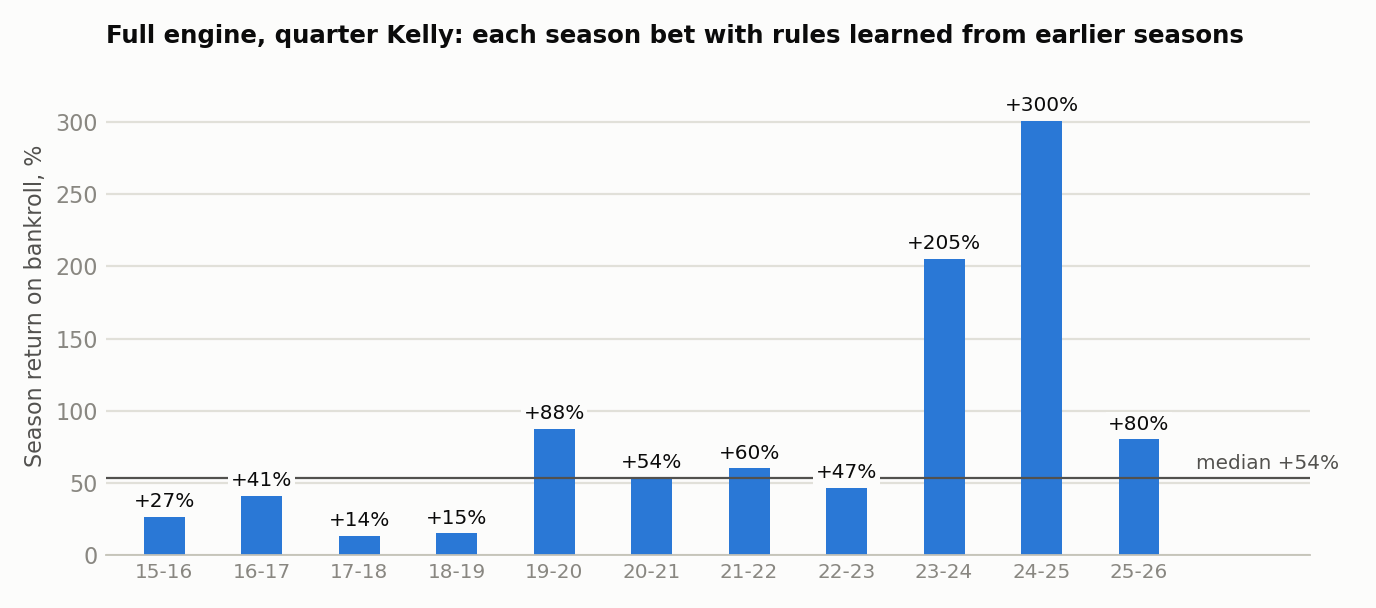
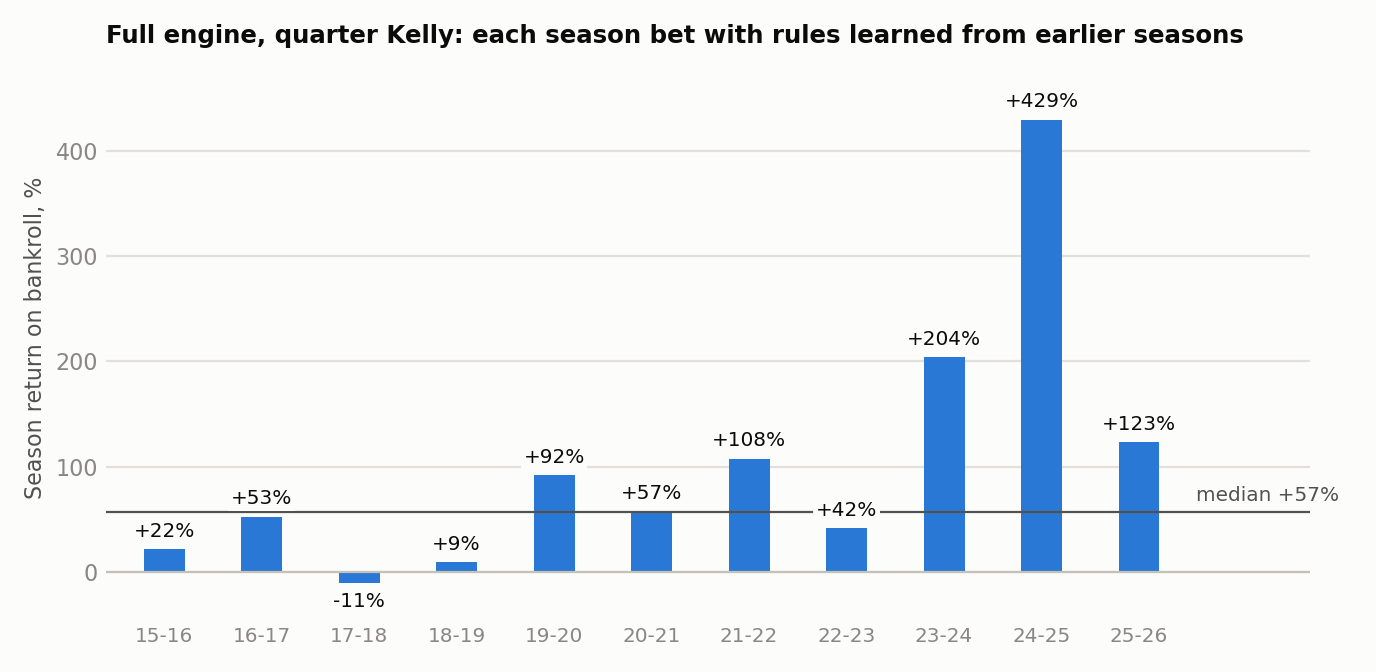
Rebuild the spread backtest on the current model with an availability feed in every season
Pre-2018 seasons now use a synthetic injury feed built from box scores; the
real report feed is used from December 2018. Spread rule 58.3% on 753 bets,
engine median +57% with one losing season in 11. Adds the comparison of five
levels of availability knowledge and redraws the engine chart to scale.

diff --git a/docs/STRATEGIES.md b/docs/STRATEGIES.md
@@ -16,11 +16,11 @@ Everything here assumes the opening line is actually bet, which has not been sho
 
 | Strategy | Bets per season | Cover | ROI per bet | Season return at 1% stakes | Status |
 |---|---|---|---|---|---|
-| Spread, model gap 2+ points | 54 | 56.8% | +8.4% | +4.5% | Backtest only |
+| Spread, model gap 2+ points | 54 | 58.3% | +11.3% | +6.1% | Backtest only |
 | Totals, model gap 2+ points | 170 | 55.3% | +5.5% | +9.3% | Passed a pre-declared test |
 | Totals, same rule on 2007-12 (never tuned on) | 137 | 57.4% | +9.5% | +13.0% | Holdout |
 | Totals, bet only within 1 point of the opener | about 140 | about 55.3% | about +5.5% | about +8% | Under live test |
-| Either rule, stake in proportion to the gap | same bets | same | +9.4% spread, +6.9% totals | +6.5%, +16.1% | Logged beside the flat stake |
+| Either rule, stake in proportion to the gap | same bets | same | +12.2% spread, +6.9% totals | +8.4%, +16.1% | Logged beside the flat stake |
 | Moneyline, four rules frozen before the season | about 75 | not comparable | no line value | not estimated | Live; likely no edge |
 | Player points | not a rule yet | 52.6% at a 5+ point probability gap | +0.7% | not estimated | Not bettable |
 
@@ -40,36 +40,36 @@ The rule bets the model's side when its corrected margin is 2 or more points fro
 
 ### Where the edge comes from
 
-Across 15,911 games the final margin moves 0.33 points for every point the model disagrees with the opener. A plain ratings model built from results in 20 lines of code earns 0.09, and it adds nothing once the full model is included. The player ratings, minutes and availability inputs are therefore doing the work.
+Across 15,911 games the final margin moves 0.36 points for every point the model disagrees with the opener. A plain ratings model built from results in 20 lines of code earns 0.09, and it adds nothing once the full model is included. The player ratings, minutes and availability inputs are therefore doing the work.
 
 ### Bigger gaps cover more
 
-A gap of a given size, set against an outcome spread of 12.6 points, implies a cover rate, and actual results track it.
+A gap of a given size, set against an outcome spread of 12.6 points, implies a cover rate, and actual results follow it loosely: the middle band falls short and the top band overshoots.
 
 | Gap | Implied by the model | Actual | Bets |
 |---|---|---|---|
-| 2 to 2.5 | 56.9% | 54.7% | 450 |
-| 2.5 to 3 | 58.5% | 59.9% | 162 |
-| 3+ | 61.4% | 60.0% | 140 |
+| 2 to 2.5 | 56.9% | 57.8% | 460 |
+| 2.5 to 3 | 58.5% | 55.2% | 181 |
+| 3+ | 61.7% | 65.2% | 112 |
 
 ### By month
 
 | Month | Cover | Bets |
 |---|---|---|
-| Oct-Nov | 61.3% | 238 |
-| Dec | 52.6% | 78 |
-| Jan | 54.2% | 72 |
-| Feb | 54.8% | 73 |
-| Mar | 61.1% | 126 |
-| Apr | 50.4% | 141 |
+| Oct-Nov | 63.6% | 236 |
+| Dec | 56.3% | 87 |
+| Jan | 52.4% | 63 |
+| Feb | 52.3% | 65 |
+| Mar | 60.1% | 153 |
+| Apr | 53.8% | 130 |
 
 ### Best in October and November
 
-The model is no more accurate per point early in the season. It earns 0.29 points of result per point of gap in October and November, against 0.40 from December to March. What changes is how far it disagrees with the opener: the spread of that disagreement is 3.1 points early and 2.5 later. As a result 6.4% of early games reach the 2-point threshold, compared with 3.0% later, and they clear it by more.
+The model is no more accurate per point early in the season. It earns 0.30 points of result per point of gap in October and November, against 0.42 from December to March. What changes is how far it disagrees with the opener: the spread of that disagreement is 3.1 points early and 2.6 later. As a result 6.4% of early games reach the 2-point threshold, compared with 3.2% later, and they clear it by more.
 
-### April loses (small sample)
+### April is weakest
 
-April is where the model disagrees with the opener most, at 3.5 points, and is right least, at 0.12 points of result per point of gap. April games also carry more expected absences: 2.7 a game against 1.9. On 2019-26, April bets in games with three or more expected absences covered 36.8% (38 bets), while the rest covered 61.3% (31 bets). The model is weakest when many regular players sit, although rest and tanking were not separated.
+April is where the model disagrees with the opener most, at 3.4 points, and is right least, at 0.22 points of result per point of gap, so its bets cover only 53.8%. April games also carry more expected absences: 2.7 a game against 1.9. An earlier version of this page blamed those absences, but the split does not hold on the rebuilt model: on 2019-26, April bets in games with three or more expected absences covered 55.0% (40 bets) and the rest 57.1% (28 bets). Giving April its own, lower trust did not help out of sample either, so the weak month is unexplained.
 
 ## Totals rule
 
@@ -130,9 +130,9 @@ February is strong in both samples, and the All-Star break is not the reason, si
 
 ## Sizing and thresholds
 
-Staking in proportion to the gap (1 unit at 2 points, capped at 2.5) raises ROI from +8.4% to +9.4% on spreads and from +5.5% to +6.9% on totals. This follows from the gap tables above, because bigger gaps cover more. It does not smooth the seasons much: losing seasons go from 2 of 14 to 4 on spreads, two of them by under half a unit, and from 2 to 1 on totals.
+Staking in proportion to the gap (1 unit at 2 points, capped at 2.5) raises ROI from +11.3% to +12.2% on spreads and from +5.5% to +6.9% on totals. This follows from the gap tables above, because bigger gaps cover more. It trims the losing seasons from 2 of 14 to 1 on each rule.
 
-A higher threshold gives more per bet and less in total. Spread bets at a gap of 2.5+ cover 59.9% for +14.4%, on 22 bets a season. Totals bets at 3+ cover 59.7% for +13.9%, on 44 a season.
+A higher threshold gives more per bet and less in total. Spread bets at a gap of 2.5+ cover 59.0% for +12.7%, on 21 bets a season. Totals bets at 3+ cover 59.7% for +13.9%, on 44 a season.
 
 On the totals rule, quarter Kelly returned +9.6% a season on average, with a median of +4.7% and a standard deviation of 14.0%. Full Kelly reached a 68% drawdown; the detail is in [SEASON_2026_27.md](SEASON_2026_27.md).
 
@@ -144,17 +144,33 @@ The table runs both rules together with sized stakes, where the base stake is a 
 
 | Base stake | Median season | Worst season | Losing seasons | Worst drawdown within a season |
 |---|---|---|---|---|
-| 1% | +19.2% | -6.5% | 2 of 14 | 20% |
-| 2% | +29.2% | -17.1% | 2 of 14 | 40% |
-| 3% | +39.4% | -30.9% | 2 of 14 | 52% |
-| 5% | +56.2% | -51.5% | 2 of 14 | 67% |
-| 8% | +72.9% | -74.9% | 3 of 14 | 81% |
+| 1% | +20.5% | -7.3% | 2 of 14 | 21% |
+| 2% | +37.8% | -17.1% | 2 of 14 | 42% |
+| 3% | +54.9% | -30.1% | 2 of 14 | 55% |
+| 5% | +79.4% | -57.5% | 3 of 14 | 70% |
+| 8% | +89.3% | -75.1% | 3 of 14 | 81% |
 
-Drawdown grows almost in step with the stake, and the median return stops growing before the drawdown does: at a 12% base stake the median is +69.0%, below the 8% row, with a 93% drawdown and five losing seasons. The longest losing run was 12 bets, and the busiest night carried 18 bets at once. Mean returns run far above the medians at the larger stakes, because a few seasons compound to several times the bankroll, which is why the table leaves them out.
+Drawdown grows almost in step with the stake, and the median return stops growing before the drawdown does: at a 12% base stake the median is +75.7%, below the 8% row, with a 91% drawdown and five losing seasons. The longest losing run was 10 bets, and the busiest night carried 17 bets at once. Mean returns run far above the medians at the larger stakes, because a few seasons compound to several times the bankroll, which is why the table leaves them out.
 
 ## Why the rules win
 
 The working thesis is that the model is faster than the opening line and no smarter than the market. On spreads it prices at the opener what the market prices over the following day, which is who will play and how good they are, and the line then moves toward it. The totals model uses no player data and bets when the opener sits away from where the market itself recently closed those teams. Neither rule has an edge at later prices, and the model does not beat the closing line on any market.
+
+### Knowing who plays
+
+The spread model is built on player ratings, so it matters how much it knows about who will play. The table reruns the same model over the same games with five levels of that knowledge, on the rule the live view uses: bet when the market-blind model is 5 or more points from the opening spread.
+
+| What the model knows about who plays | 2012-18 cover | 2018-26 cover | All 14 seasons | Bets |
+|---|---|---|---|---|
+| Nothing | 53.2% | 55.4% | 54.8% | 1,315 |
+| A synthetic feed built from box scores | 54.5% | 56.9% | 56.2% | 1,319 |
+| The injury-report feed, as of the open | not available | 58.6% | 56.9% | 1,260 |
+| Official inactive lists, 30 minutes before tip | 55.2% | 60.0% | 58.6% | 1,274 |
+| Perfect hindsight | 58.0% | 60.1% | 59.5% | 1,403 |
+
+Cover rises with every step, and so does the amount by which the bets beat the closing line, from 0.6 points with nothing to 1.8 with hindsight. The injury-report feed only exists from December 2018, so for earlier seasons the backtest uses the synthetic feed, which estimates each rotation player's chance of sitting from box scores before game day: whether he missed the last game, how many in a row, days since he played, his minutes and back-to-backs. It recovers about half of what the real feed adds, and its estimate of minutes missing per team tracks reality about as well (a correlation of 0.68 against 0.72). The last two rows cannot be bet a day ahead and are there as a ceiling.
+
+The older seasons stay behind the recent ones at every level, so the missing feed explains part of that gap and not all of it.
 
 ### Not roster or league change
 
@@ -162,13 +178,13 @@ A model built on player ratings might be expected to win most when rosters chang
 
 | Combined turnover | Spread cover | Bets | Totals cover | Bets |
 |---|---|---|---|---|
-| Low | 57.0% | 237 | 54.9% | 887 |
-| Middle | 55.7% | 271 | 54.9% | 827 |
-| High | 57.8% | 244 | 56.2% | 666 |
+| Low | 57.4% | 237 | 54.9% | 887 |
+| Middle | 57.4% | 270 | 54.9% | 827 |
+| High | 60.2% | 246 | 56.2% | 666 |
 
-In a regression of win on gap, turnover and early season, the turnover coefficient is about zero for both rules (p = 0.88 on spreads and 0.73 on totals). The model's disagreement with the opener is also no wider when turnover is high. The early-season spread edge does not come from new rosters either, since October and November bets covered 63.2% in low-turnover games (87 bets) and 64.9% in high-turnover games (77 bets). Backing the team that was worse last season covered 58.0% (269 bets), against 56.0% for backing the better one (482 bets).
+In a regression of win on gap, turnover and early season, the turnover coefficient is about zero for both rules (p = 0.48 on spreads and 0.73 on totals). The model's disagreement with the opener is also no wider when turnover is high. The early-season spread edge does not come from new rosters either, since October and November bets covered 67.1% in low-turnover games (85 bets) and 66.7% in high-turnover games (78 bets). Backing the team that was worse last season covered 58.6% (290 bets), against 58.0% for backing the better one (462 bets).
 
-Season by season the picture is the same. Spread cover is uncorrelated with league-wide turnover (+0.01) and with the year-on-year change in league scoring (+0.04). Totals cover falls with league turnover (-0.56), which is most likely a shared time trend, because turnover has drifted down over the years in which totals bets have grown.
+Season by season the picture is the same. Spread cover is uncorrelated with league-wide turnover (-0.03) and with the year-on-year change in league scoring (+0.19, on 14 seasons). Totals cover falls with league turnover (-0.56), which is most likely a shared time trend, because turnover has drifted down over the years in which totals bets have grown.
 
 ### Not periods of change either
 
@@ -176,18 +192,18 @@ The same question was asked of the stretches when rosters shift during a season,
 
 | Cut | Spread cover | Bets | Totals cover | Bets |
 |---|---|---|---|---|
-| Rotation stable over the last 15 games | 58.7% | 121 | 56.5% | 503 |
-| Rotation churning | 54.3% | 245 | 57.1% | 694 |
-| 28 days before the trade deadline | 58.2% | 55 | 53.1% | 254 |
-| 21 days after the trade deadline | 54.1% | 74 | 61.8% | 254 |
-| First 20 games, a rebuilt team in the game | 60.5% | 119 | 50.2% | 263 |
-| First 20 games, no rebuilt team | 58.9% | 141 | 52.6% | 456 |
-| 30 days after the deadline, a traded team in the game | 56.2% | 64 | 57.6% | 210 |
-| 30 days after the deadline, no traded team | 61.0% | 41 | 61.1% | 131 |
+| Rotation stable over the last 15 games | 62.2% | 119 | 56.5% | 503 |
+| Rotation churning | 56.1% | 262 | 57.1% | 694 |
+| 28 days before the trade deadline | 56.9% | 51 | 53.1% | 254 |
+| 21 days after the trade deadline | 48.4% | 64 | 61.8% | 254 |
+| First 20 games, a rebuilt team in the game | 63.9% | 119 | 50.2% | 263 |
+| First 20 games, no rebuilt team | 60.6% | 137 | 52.6% | 456 |
+| 30 days after the deadline, a traded team in the game | 48.5% | 66 | 57.6% | 210 |
+| 30 days after the deadline, no traded team | 62.5% | 32 | 61.1% | 131 |
 
-Churn compares who played a team's last 5 games with the 10 before. A rebuilt team is in the top quarter for offseason turnover, and a traded team is one whose deadline arrivals went on to play 10% or more of its minutes. When rotations are churning the spread model fires on more games (5.5% against 2.7%) but is right less per point of gap (0.80 against 1.36), so cover does not improve. The jump in totals cover after the deadline looked like a finding until it was run on the 2007-12 holdout, where it reversed to 59.8% before the deadline and 50.6% after.
+Churn compares who played a team's last 5 games with the 10 before. A rebuilt team is in the top quarter for offseason turnover, and a traded team is one whose deadline arrivals went on to play 10% or more of its minutes. When rotations are churning the spread model fires on more games (5.9% against 2.7%) but is right less per point of gap (1.02 against 1.43), so cover does not improve. The jump in totals cover after the deadline looked like a finding until it was run on the 2007-12 holdout, where it reversed to 59.8% before the deadline and 50.6% after.
 
-One pattern points the other way and is recorded here as a lead. On spreads, bets where the model backs a rebuilt team covered 58.7% (126 bets), while bets where it fades one covered 49.2% (124 bets), and the same gap appears early in the season and after the deadline. The samples overlap, though, and a single test with no thresholds is positive without being significant (p = 0.30), so it waits for a season it was not found on.
+One pattern points the other way and is recorded here as a lead. On spreads, bets where the model backs a rebuilt team covered 63.2% (125 bets), while bets where it fades one covered 54.6% (141 bets), and the same gap appears early in the season though not after the deadline. The samples overlap, though, and a single test with no thresholds is positive without being significant (p = 0.16), so it waits for a season it was not found on.
 
 If the edge came from understanding change it should rise with turnover, and it does not. What the bets have in common is a rough opening number: bet counts more than doubled from 2023, as opening totals began to sit further from the model.
 
@@ -195,16 +211,16 @@ If the edge came from understanding change it should rise with turnover, and it 
 
 | Idea | Result |
 |---|---|
-| Train the spread model on line moves instead of final scores | Worse in 11 of 14 seasons |
+| Train the spread model on line moves instead of final scores | Worse in 12 of 14 seasons |
 | Trust the spread model more early in the season | Trust is the same early and late |
-| Add rest and rookie minutes to the spread model | Better in only 5 of 14 seasons |
+| Add rest and rookie minutes to the spread model | Better in only 6 of 14 seasons |
 | Refit the spread model on recent seasons only | No gain |
 | Bet against big line moves at the close | 48% |
 | Bet with big line moves at the close | 51 to 52%, under break-even |
 | Drop the totals model's standing lean to the over | Looked good on 2012-26 (56.6%), failed on 2007-12 (51.7%) |
 | Totals bets relative to the season's running average call | 54.2% against 57.4% on 2007-12 |
 | Add expected absences to the totals model | The opener already prices them |
-| Perfect knowledge of who plays, for spreads | 58.0% becomes 58.4% (measured before the opening-line repair) |
+| A different trust in the model by gap size, by month, or fixed at another value | None beats the fitted one third |
 
 Two of these looked like improvements until they were run on seasons they had not been found on. The monthly and by-type cuts on this page have had no such check, so they only describe the backtest.
 

diff --git a/docs/ENGINE.md b/docs/ENGINE.md
@@ -2,13 +2,13 @@
 
 This page asks what happens when every rule on the [strategies page](STRATEGIES.md) is used at once. The engine bets by size of disagreement, by time of season and by side, and sizes each stake to the estimated edge. Each season is bet with rules learned from earlier seasons.
 
-The median season return is +54% of bankroll at quarter Kelly, with no losing season in 11. Most of that comes from staking more on the same edge. All of it assumes the opening line can be bet.
+The median season return is +57% of bankroll at quarter Kelly, with ten profitable seasons in 11. Most of that comes from staking more on the same edge. All of it assumes the opening line can be bet.
 
 ![season return by season](../charts/engine_by_season.png)
 
 ## How it works
 
-The candidates are the 6,230 games from 2012-13 to 2025-26 where the spread model or the totals model is 1.5 or more points from the opening line. Each model's prediction for a season comes from a fit on earlier seasons.
+The candidates are the 6,248 games from 2012-13 to 2025-26 where the spread model or the totals model is 1.5 or more points from the opening line. Each model's prediction for a season comes from a fit on earlier seasons. The spread model knows who is expected to play from the injury-report feed where one exists (December 2018 on) and from a synthetic feed built from box scores before that; the [strategies page](STRATEGIES.md#knowing-who-plays) shows what each is worth.
 
 For each test season, a regression is fitted on the candidates of earlier seasons. It estimates whether a bet wins from the size of the gap, the market, the part of the season and the side taken. The stake is a quarter of the Kelly stake that probability implies. There is no bet at or below break-even, and no more than 25% of the bankroll is at risk on one night.
 
@@ -18,36 +18,36 @@ The test seasons are 2015-16 to 2025-26, and nothing from a test season is used 
 
 | Engine | Median season | Worst season | Largest drawdown | ROI per unit staked | Bets per season |
 |---|---|---|---|---|---|
-| Gap size only | +40.2% | +4.7% | 29% | +10.7% | 332 |
-| + time of season | +57.1% | +5.3% | 27% | +9.9% | 310 |
-| + side | +36.7% | +15.7% | 31% | +10.5% | 316 |
-| All rules | +53.8% | +13.7% | 32% | +10.0% | 302 |
+| Gap size only | +42.2% | -7.7% | 30% | +10.4% | 402 |
+| + time of season | +75.0% | -14.1% | 36% | +9.6% | 364 |
+| + side | +44.9% | +1.9% | 34% | +9.6% | 368 |
+| All rules | +57.3% | -10.8% | 34% | +9.0% | 344 |
 
-The seasonal rules beat the gap-only engine in 9 of 11 seasons, and all rules together beat it in 8. The means sit well above the medians because the last three seasons were large: the all-rules mean is +84.6%, and without 2024-25 the mean is +63.0% and the median +50.2%.
+The seasonal rules beat the gap-only engine in 8 of 11 seasons, and all rules together beat it in 7. The means sit well above the medians because the last three seasons were large: the all-rules mean is +102.5%, and without 2024-25 the mean is +69.8% and the median +55.0%.
 
-Larger stakes raise both the return and the risk. At half Kelly the all-rules median is +99% with a 55% drawdown. At full Kelly it is +153%, with a 75% drawdown and a worst season of -30%.
+Larger stakes raise both the return and the risk. At half Kelly the all-rules median is +127% with a 59% drawdown. At full Kelly it is +216%, with an 82% drawdown and a worst season of -66%.
 
 | Season | Bets | Cover | ROI per unit staked | Season return | Largest drawdown |
 |---|---|---|---|---|---|
-| 2015-16 | 211 | 58.3% | +8.1% | +26.8% | 12% |
-| 2016-17 | 228 | 55.7% | +8.6% | +41.2% | 21% |
-| 2017-18 | 248 | 52.4% | +3.0% | +13.7% | 17% |
-| 2018-19 | 160 | 56.2% | +5.7% | +15.2% | 26% |
-| 2019-20 | 195 | 56.9% | +23.1% | +87.6% | 10% |
-| 2020-21 | 251 | 59.4% | +10.7% | +53.8% | 11% |
-| 2021-22 | 349 | 57.9% | +7.3% | +60.2% | 32% |
-| 2022-23 | 219 | 58.0% | +12.6% | +46.6% | 20% |
-| 2023-24 | 514 | 54.5% | +12.3% | +205.3% | 18% |
-| 2024-25 | 429 | 58.5% | +12.4% | +300.4% | 23% |
-| 2025-26 | 518 | 54.2% | +5.9% | +80.2% | 27% |
+| 2015-16 | 218 | 57.3% | +7.2% | +21.6% | 12% |
+| 2016-17 | 266 | 55.6% | +10.3% | +52.7% | 13% |
+| 2017-18 | 332 | 52.1% | -1.9% | -10.8% | 34% |
+| 2018-19 | 229 | 53.3% | +3.0% | +9.3% | 25% |
+| 2019-20 | 250 | 56.4% | +20.2% | +91.9% | 14% |
+| 2020-21 | 270 | 58.1% | +11.1% | +57.3% | 11% |
+| 2021-22 | 379 | 58.8% | +9.9% | +107.6% | 29% |
+| 2022-23 | 245 | 57.6% | +8.9% | +41.5% | 22% |
+| 2023-24 | 559 | 54.2% | +11.2% | +204.2% | 19% |
+| 2024-25 | 479 | 58.2% | +12.4% | +429.3% | 26% |
+| 2025-26 | 554 | 55.4% | +6.8% | +123.1% | 28% |
 
 ## Why the last three seasons are so large
 
-The three largest returns are the three most recent seasons, which can look like a model fitted to recent data. It is not that: every weight used to bet a season was learned from earlier seasons only, and the return per unit staked in 2023-24 and 2024-25, at about +12%, is in line with 2022-23 and well below 2019-20.
+The three largest returns are the three most recent seasons, which can look like a model fitted to recent data. It is not that: every weight used to bet a season was learned from earlier seasons only, and the return per unit staked in 2023-24 and 2024-25, at 11 to 12%, is in line with 2020-21 and well below 2019-20.
 
-What changed is volume. The engine placed 487 bets a season from 2023-24 on, against 233 before, as opening totals began to sit further from the model, and it staked about 2% of the bankroll on each where it had staked about 1.6%. Total stakes over a season therefore rose from roughly four times the bankroll to about ten, and because each stake is a share of the current bankroll, the same edge compounds into a far larger season. The stake sizes are also why these figures should not be read as achievable: opening lines carry low limits, and nobody gets ten times their bankroll down on them in a season.
+What changed is volume. The engine placed 531 bets a season from 2023-24 on, against 274 before, as opening totals began to sit further from the model, and it staked about 2.1% of the bankroll on each where it had staked about 1.5%. Total stakes over a season therefore rose from roughly four times the bankroll to about eleven, and because each stake is a share of the current bankroll, the same edge compounds into a far larger season. The stake sizes are also why these figures should not be read as achievable: opening lines carry low limits, and nobody gets eleven times their bankroll down on them in a season.
 
-Profit per bet did not change. Across the two flat-stake rules, bets covered 55.6% for +6.2% per bet up to 2022-23 and the same 55.6% and +6.2% from 2023-24 on, while the number of bets a season went from 181 to 381, nearly all of the increase in totals. Two checks rule out the obvious objections. Rerunning the totals model on opening lines from a second source gives the same volume and a 55.4% cover rate, so the extra bets are not a quirk of one data feed; and a totals model fitted on 2007-17 and never updated still covers 56.1% in 2023-26, on 227 bets a season against 157 before, so they are not a fit to recent seasons either. The volume is still the part least likely to carry over: so far this season 11% of totals reach the 2-point threshold at the line actually on screen, against 25% in the backtest's recent seasons.
+Profit per bet barely changed. Across the two flat-stake rules, bets covered 55.8% for +6.5% per bet up to 2022-23 and 56.3% for +7.4% from 2023-24 on, while the number of bets a season went from 177 to 396, most of the increase in totals. Two checks rule out the obvious objections. Rerunning the totals model on opening lines from a second source gives the same volume and a 55.4% cover rate, so the extra bets are not a quirk of one data feed; and a totals model fitted on 2007-17 and never updated still covers 56.1% in 2023-26, on 227 bets a season against 157 before, so they are not a fit to recent seasons either. The volume is still the part least likely to carry over: so far this season 11% of totals reach the 2-point threshold at the line actually on screen, against 25% in the backtest's recent seasons.
 
 ## A repair to the 2024-25 opening lines
 
@@ -61,34 +61,34 @@ Fitted on all seasons, the engine assigns these win rates to typical bets.
 
 | Bet | Win rate | Bet? |
 |---|---|---|
-| Totals over, gap 2, Dec-Jan | 54.3% | Yes |
+| Totals over, gap 2, Dec-Jan | 54.4% | Yes |
 | Totals over, gap 2, Oct-Nov | 50.3% | No |
-| Totals under, gap 2, Dec-Jan | 57.4% | Yes |
+| Totals under, gap 2, Dec-Jan | 57.5% | Yes |
 | Totals over, gap 4, Dec-Jan | 60.4% | Yes |
-| Spread, gap 2, Oct-Nov | 55.8% | Yes |
-| Spread, gap 3, Oct-Nov | 60.1% | Yes |
-| Spread, gap 2, April | 48.0% | No |
+| Spread, gap 2, Oct-Nov | 59.1% | Yes |
+| Spread, gap 3, Oct-Nov | 63.1% | Yes |
+| Spread, gap 2, April | 52.1% | No |
 
 These are the patterns on the strategies page, except that here each was learned from earlier seasons and then applied to the next one.
 
 ## A simpler engine
 
-The simpler engine groups bets by market and gap size. It estimates each group's win rate from earlier seasons, pulls that estimate strongly toward break-even, and bets the groups that still clear it. It stakes less and places 172 bets a season.
+The simpler engine groups bets by market and gap size. It estimates each group's win rate from earlier seasons, pulls that estimate strongly toward break-even, and bets the groups that still clear it. It stakes less and places 185 bets a season.
 
 | | Median season | Mean | Volatility (sd) | Worst | Losing seasons | ROI per unit staked |
 |---|---|---|---|---|---|---|
-| Totals + spread | +19.6% | +27.1% | 31.7% | -10.2% | 2 of 11 | +12.5% |
+| Totals + spread | +13.7% | +35.9% | 58.2% | -1.5% | 1 of 11 | +11.4% |
 | Totals only | +9.0% | +19.8% | 26.7% | -3.1% | 2 of 11 | +9.8% |
-| Spread only | +4.1% | +5.6% | 9.6% | -9.6% | 3 of 11 | +19.6% |
+| Spread only | +4.0% | +11.6% | 26.3% | -6.9% | 1 of 11 | +14.7% |
 
-## Where the +54% comes from
+## Where the +57% comes from
 
-The figure is leverage, not extra skill: ROI per unit staked is about +10% in the full engine and +12.5% in the simple one. The full engine returns more because it places 302 bets a season at larger stakes. Adding the seasonal and side rules barely improves the win-probability forecast itself, whose log loss moves from 0.68770 to 0.68759.
+The figure is leverage, not extra skill: ROI per unit staked is about +9% in the full engine and +11.4% in the simple one. The full engine returns more because it places 344 bets a season at larger stakes. Adding the seasonal and side rules does not improve the win-probability forecast itself, whose log loss goes from 0.68647 to 0.68680.
 
 More bets did not mean more profit per bet. Bets per season more than doubled after 2022, as opening totals began moving more and the lower-gap groups, which win about 54%, came into play.
 
-The figure also assumes every opening line is bet at -110 with 2 to 4% of the bankroll. First lines carry low limits, and the most mispriced ones move within minutes.
+The figure also assumes every opening line is bet at -110 with 2 to 4% of the bankroll. First lines carry low limits, and most of their move toward the close happens overnight and on game day.
 
-The most recent season was among the weakest for skill. In 2025-26 the engine won 54.2% of its bets and returned +5.9% per unit staked, with a 27% drawdown.
+The engine is not safe from a bad year. In 2017-18 it won 52.1% of its bets, lost 1.9% per unit staked and finished down 10.8% after a 34% drawdown, and the gap-only and seasonal versions each have a losing season too.
 
 None of this has been shown live; the paper views began recording the price actually available on 2026-11-16.

diff --git a/README.md b/README.md
@@ -6,9 +6,9 @@ A market-anchored NBA model for spreads and totals, together with the research r
 
 | | |
 |---|---|
-| +54% | Median season return of the full betting engine at quarter Kelly, across 11 seasons it had not seen, none of which lost. |
-| 56.6% | Share of the engine's bets won, against a break-even of 52.4%, for a return of about +10% per unit staked on 302 bets a season. |
-| 56.8% | Share of spread-rule bets won when the model is 2 or more points from the opening spread, over 752 bets from 2012 to 2026. |
+| +57% | Median season return of the full betting engine at quarter Kelly, across 11 seasons it had not seen, ten of them profitable. |
+| 56.1% | Share of the engine's bets won, against a break-even of 52.4%, for a return of about +9% per unit staked on 344 bets a season. |
+| 58.3% | Share of spread-rule bets won when the model is 2 or more points from the opening spread, over 753 bets from 2012 to 2026. |
 | 55.3% | Share of totals-rule bets won when the model is 2 or more points from the opening total, over 2,380 bets; it beat break-even in 12 of 14 seasons and won 57.4% on five further seasons it was never tuned on. |
 
 These are backtests that assume the opening line is bet, which has not been shown live, and at the prices available later in the day the edge disappears. No capital has been deployed on any of it.

diff --git a/docs/SEASON_2026_27.md b/docs/SEASON_2026_27.md
@@ -220,7 +220,7 @@ Other cuts of the same games agree: totals at a 3+ point gap against the opener 
 | Bet type | This season, through 11-04 | Backtest | Verdict |
 |---|---|---|---|
 | Moneyline, all games | Log loss 0.5769 vs market 0.5704 at 10am | Beat the opener in 13 of 14 seasons | Behind so far, not significant |
-| Spread, gap 2+, first line the day before | 5-0 (10-6 at gap 1.5+) | 56.8% on 752 bets, 2012-26 | Ahead, but very few bets, and the rule was shaped on these dates |
+| Spread, gap 2+, first line the day before | 5-0 (10-6 at gap 1.5+) | 58.3% on 753 bets, 2012-26 | Ahead, but very few bets, and the rule was shaped on these dates |
 | Game totals, gap 2+, opening total | 22-13 | 55.3% on 2,380 bets, 2012-26; 57.4% on 685 bets, 2007-12 | Ahead, clean test |
 | Game totals, gap 2+, first total seen on game day | 14-13 | None | Break-even |
 | Player points | Log loss 0.7147 vs line 0.6904 | None | Worse than the line overall |
